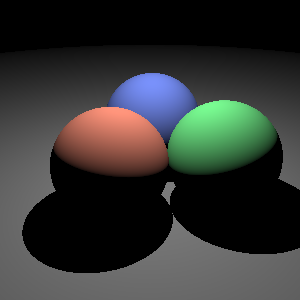
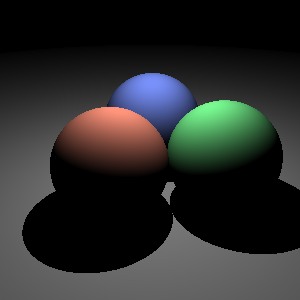
closer with phong, passing wirebox

Changed region(s): [[0.18, 0.24, 0.93, 0.6], [0.42, 0.24, 0.45, 0.27]]

diff --git a/ray1.2/src/ray/light/PointLight.java b/ray1.2/src/ray/light/PointLight.java
@@ -37,10 +37,44 @@ public class PointLight extends Light {
 		return "point light: " + position + " " + intensity;
 	}
 
-	//TODO: this
-	public Color illuminate(Ray ray, HitRecord hitRecord, Scene scene) 
-	{
-		throw new UnsupportedOperationException();
+	@Override
+	public Color illuminate(Ray ray, HitRecord hitRecord, Scene scene) {
+		Color c = new Color();
+
+		//compute direction towards the viewer
+		Vector3 v = new Vector3(ray.getDirection());
+		v.scale(-1);
+		v.normalize();
+
+		//compute ray intersection
+		Point3 x = ray.evaluate(hitRecord.getT());
 		
+		//compute vector from the surface point to the light position
+		Vector3 l = new Vector3();
+		l.sub(position, x);
+		double r = l.length();	//distance from the surface point to the light
+		l.normalize();
+		
+		// cast shadow ray toward view point
+		Ray shadowRay = new Ray(x, l);
+		HitRecord shadowHit = scene.getGroup().hit(shadowRay, 1e-4, Double.POSITIVE_INFINITY);
+
+		//compute illumination if nothing in the way
+		if (shadowHit == null || shadowHit.getT() >= r)
+		{	
+			//calculate the illumination due to the point light source
+			Vector3 n = hitRecord.getNormal();
+			Color irradiance = new Color(intensity);
+			irradiance.scale(Math.max(0, n.dot(l)) / r / r);
+			Color reflectanceCoefficient = hitRecord.getSurface().getMaterial().shade(l, v, n);
+
+			//multiply by materials reflectance coefficeint
+			Color reflectedLight = new Color(irradiance);
+			reflectedLight.scale(reflectanceCoefficient);
+			c = reflectedLight;
+		}
+
+		// otherwise return black
+		return c;
 	}
 }

diff --git a/ray1.2/src/ray/RayTracer.java b/ray1.2/src/ray/RayTracer.java
@@ -125,6 +125,7 @@ public class RayTracer {
 		double viewWidth = camera.viewWidth;
 		double viewHeight = camera.viewHeight;
 		double d = camera.projDistance;
+		Vector3 viewDir = camera.viewDir;
 
 		//calculate u and v
 		//see ch4 slide 32 for formula
@@ -139,15 +140,21 @@ public class RayTracer {
 		double u = l + (r - l) * (x + .5) / nX;
 		double v = b + (t - b) * (y + .5) / nY;
 		
-		//ray direction from the book pg 92 (4.3.2 Perspective Views)
 		Vector3 rayDirection = new Vector3();
-		rayDirection.scaleAdd(-d, basis[2]); //W
-		rayDirection.scaleAdd(u, basis[0]);  //U
-		rayDirection.scaleAdd(v, basis[1]);  //V
 
+		//non-oblique formula
+		// rayDirection.scaleAdd(-d, basis[2]); //-dW
+		// rayDirection.scaleAdd(u, basis[0]);  //uU
+		// rayDirection.scaleAdd(v, basis[1]);  //vV
+
+		//oblique formula
+		viewDir.normalize();
+		rayDirection.scaleAdd(d, viewDir);   //dD
+		rayDirection.scaleAdd(u, basis[0]);  //uU
+		rayDirection.scaleAdd(v, basis[1]);  //vV
+	
 		return rayDirection;
 	}
-	
 
 	/**
 	 * The renderImage method renders the entire scene.

diff --git a/ray1.2/src/ray/material/Lambertian.java b/ray1.2/src/ray/material/Lambertian.java
@@ -27,19 +27,12 @@ public class Lambertian extends Material {
 		return "lambertian: " + ambientColor + " " + diffuseColor + " end";
 	}
 	
-	//TODO: this (DIFFUSE - reflects in all directions)
+	//(DIFFUSE - reflects in all directions)
 	public Color shade(Vector3 l, Vector3 v, Vector3 n) 
 	{
-		//throw new UnsupportedOperationException();
-		// diffuse relation coefficient * (N dot L) * light intensity * diffuse color ?
-
-		//dot of l and n
-		double dotProduct = Math.max(0.0, l.dot(n));
-		//create copy of color
-		Color diffuseReflection = new Color(diffuseColor);
-		//do calculation
-		diffuseReflection.scale(dotProduct);
+		Color diffuse = new Color(ambientColor);
+		diffuse.scale(diffuseColor);
 	
-		return diffuseReflection;
+		return diffuse;
 	}
 }

diff --git a/ray1.2/src/ray/material/Phong.java b/ray1.2/src/ray/material/Phong.java
@@ -32,8 +32,24 @@ public class Phong extends Lambertian {
 	//TODO: this (SPECULAR)
 	@Override
 	public Color shade(Vector3 l, Vector3 v, Vector3 n) {
-		throw new UnsupportedOperationException();
-	}
+		//compute halfway vector
+		Vector3 h = new Vector3();
+		h.add(l, v);
+		h.normalize();
 
+		//compute diffuse
+		Color diffusePart = this.diffuseColor;
+
+		//compute specular
+		Color specularPart = new Color(specularColor); 
+		specularPart.scale(Math.pow(Math.max(0, n.dot(h)), exponent));
+
+		//final
+		Color reflectanceCoefficient = new Color(diffusePart);
+		reflectanceCoefficient.add(specularPart);
+
+		return reflectanceCoefficient;
+
+	}
 }
 

diff --git a/ray1.2/src/ray/surface/Ellipsoid.java b/ray1.2/src/ray/surface/Ellipsoid.java
@@ -48,16 +48,6 @@ public class Ellipsoid extends Surface {
 		//(x^2/a^2) + (y^2/b^2) + (z^2/c^2) - 1 = 0
 		//x,y,z = coords on ellipse (ray)
 		//a,b,c = x,y,z axis length respectfully
-		//where min and max are the bounding coords of a box around the ellipsoid
-		double xMin = center.x - a;
-		double xMax = center.x + a;
-		double yMin = center.y - b;
-		double yMax = center.y + b;
-		double zMin = center.z - c;
-		double zMax = center.z + c;
-		setA((xMax - xMin) / 2.0);
-		setB((yMax - yMin) / 2.0);
-		setC((zMax - zMin) / 2.0);
 
 		//localize ray direction
 		double rayDx = d.dot(aAxis);
